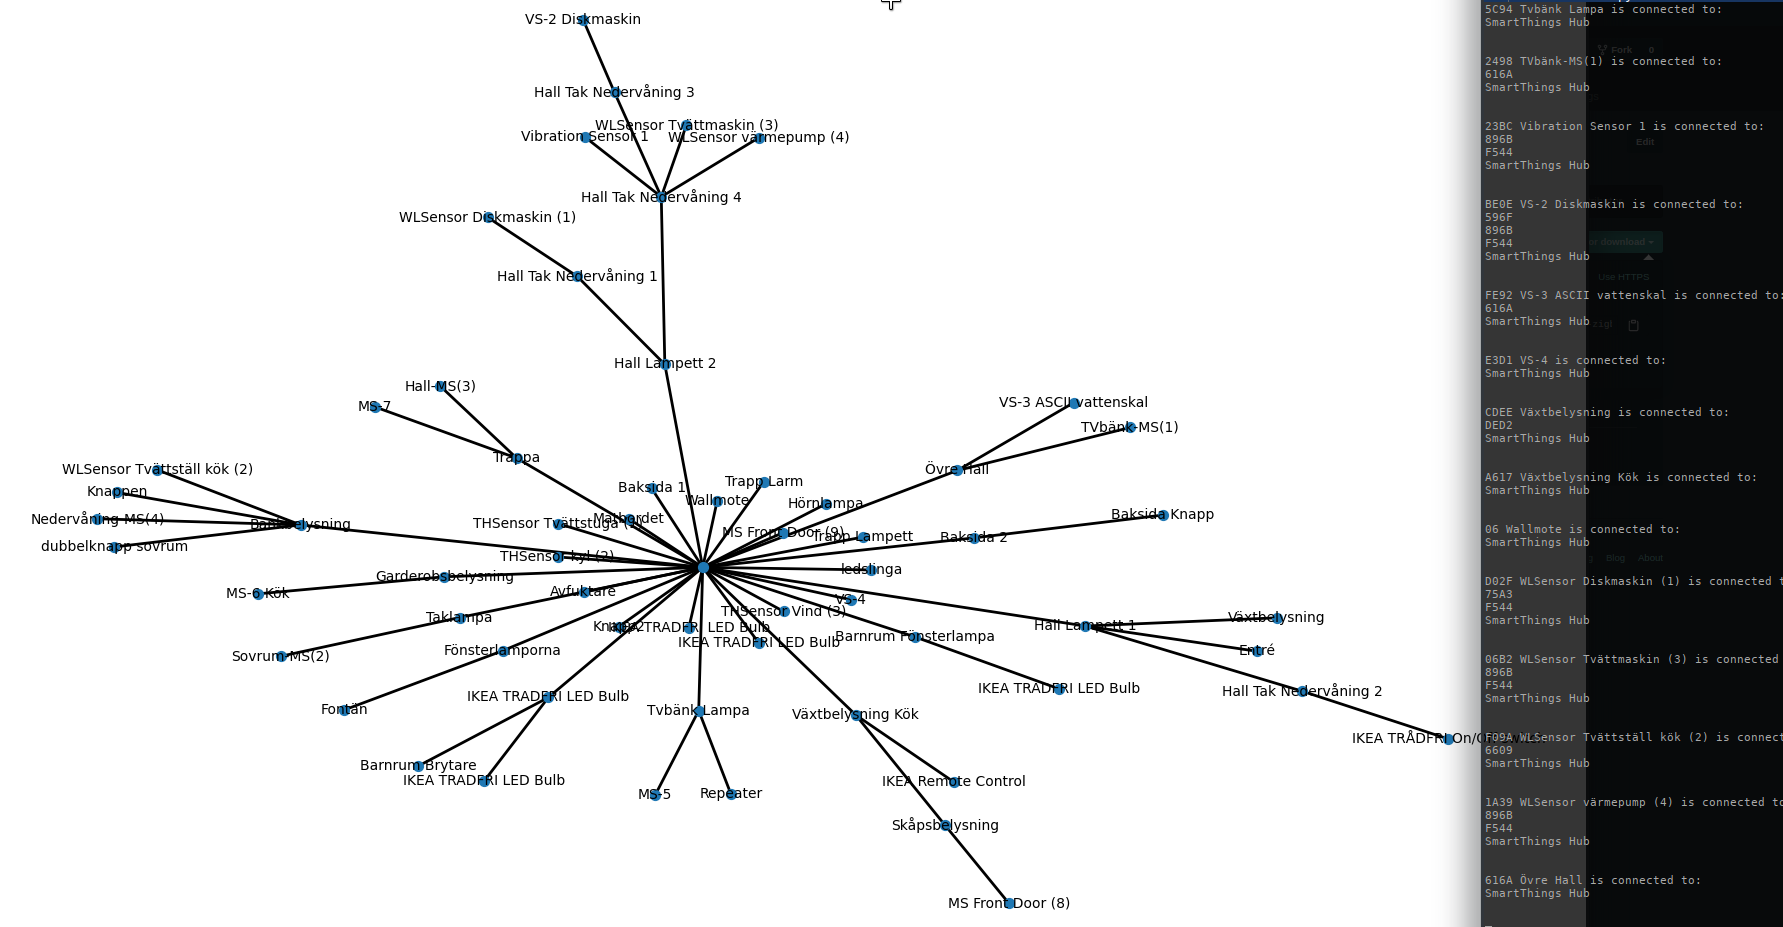
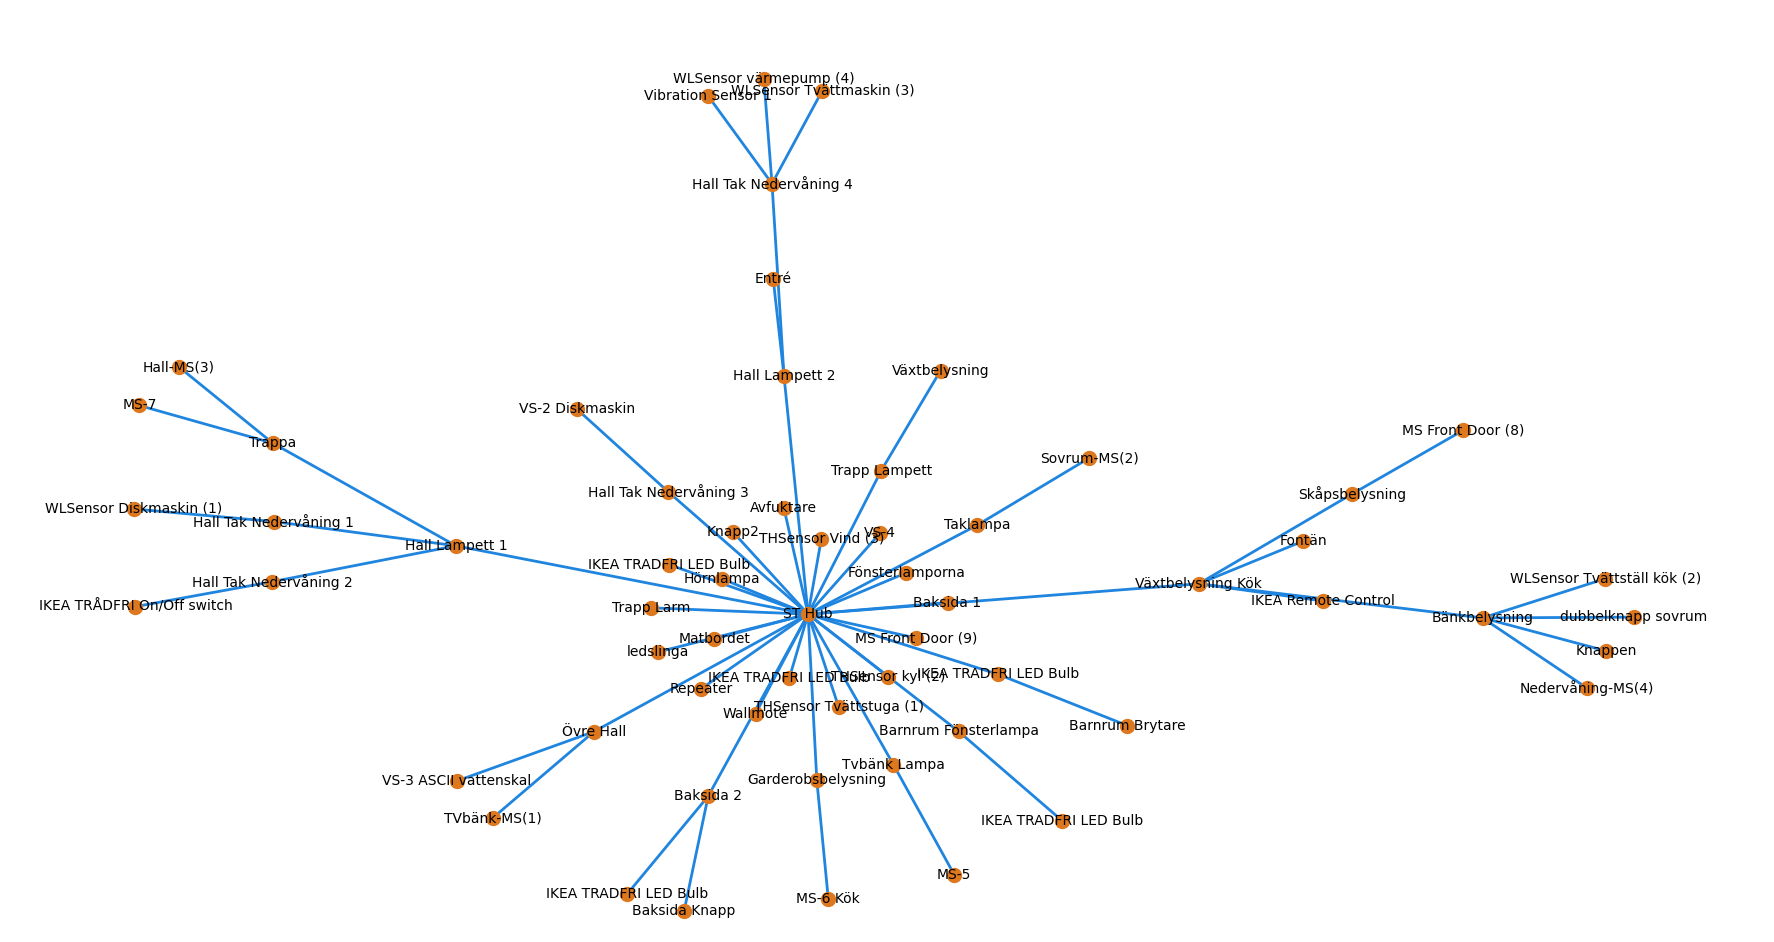
refactored, added multi hub support, changed colors

diff --git a/scrape-st-save-image.py b/scrape-st-save-image.py
@@ -1,74 +1,6 @@
-import networkx as nx
-import re
-import requests
-from bs4 import BeautifulSoup
+import _scrape
 import matplotlib.pyplot as plt
 
-G       = nx.Graph()
-cookies = {'JSESSIONID': input("COOKIE:")}
-host    = 'https://graph-eu01-euwest1.api.smartthings.com'
-r       = requests.get(host+'/device/list', cookies=cookies)
-
-G.add_node('0',details='{\'name\': \'Hub\'}')
-
-soup = BeautifulSoup(r.content, "html.parser")
-translationDict = {}
-for device in soup.select('#device-table > tbody > tr'):
-    link = device.select('td:nth-of-type(1) > a')[0]
-    deviceName        = link.text.strip()
-    deviceDetailsLink = link.get('href')
-
-    deviceType        = device.select('td:nth-of-type(2)')[0].text.strip()
-    hubName           = device.select('td:nth-of-type(4)')[0].text.strip()
-    deviceId          = device.select('td:nth-of-type(5)')[0].text.strip()
-    deviceNetworkId   = device.select('td:nth-of-type(6)')[0].text.strip()
-    deviceStatus      = device.select('td:nth-of-type(7)')[0].text.strip()
-
-    deviceDetails = requests.get(host+deviceDetailsLink, cookies=cookies)
-    details = BeautifulSoup(deviceDetails.content, "html.parser")
-    translationDict[deviceNetworkId] = deviceName
-    deviceData = {
-        'name':   deviceName,
-        'Type':   deviceType,
-        'ID':     deviceId,
-        'NID':    deviceNetworkId,
-        'Status': deviceStatus
-    }
-    G.add_node(deviceNetworkId, details=deviceData)
-    routes = details.select('#meshRoute-label + td a')
-    deviceRoute = []
-    for route in routes:
-        rex = re.search('.*\((.+)\).*', route.text)
-        if route == routes[1]:
-            print(deviceNetworkId + ' ' + deviceName + ' is connected to:')
-
-        if rex and rex.group(1) != deviceNetworkId:
-            deviceRoute.append(rex.group(1))
-            print(rex.group(1))
-        if route.text == hubName:
-            deviceRoute.append('0')
-            print(route.text)
-        if route == routes[-1]:
-            print("\n")
-
-    previousroute = None
-    for route in deviceRoute:
-        if not previousroute:
-            G.add_edge(deviceNetworkId, route)
-        else:
-            G.add_edge(route, previousroute)
-        previousroute = route
-
-
-options = {
-    'font_size': 10,
-    'node_size': 50,
-    'width': 2,
-    'with_labels': True,
-    'labels': translationDict
-}
-
-nx.draw(G,**options)
 fig = plt.gcf()
 fig.set_size_inches(180, 100, forward=True)
 plt.savefig('path.png')

diff --git a/scrape-st.py b/scrape-st.py
@@ -1,73 +1,6 @@
-import networkx as nx
-import re
-import requests
-from bs4 import BeautifulSoup
+import _scrape
 import matplotlib.pyplot as plt
 
-G       = nx.Graph()
-cookies = {'JSESSIONID': input("COOKIE:")}
-host    = 'https://graph-eu01-euwest1.api.smartthings.com'
-r       = requests.get(host+'/device/list', cookies=cookies)
-
-G.add_node('0',details='{\'name\': \'Hub\'}')
-
-soup = BeautifulSoup(r.content, "html.parser")
-translationDict = {}
-for device in soup.select('#device-table > tbody > tr'):
-    link = device.select('td:nth-of-type(1) > a')[0]
-    deviceName        = link.text.strip()
-    deviceDetailsLink = link.get('href')
-    deviceType        = device.select('td:nth-of-type(2)')[0].text.strip()
-    hubName           = device.select('td:nth-of-type(4)')[0].text.strip()
-    deviceId          = device.select('td:nth-of-type(5)')[0].text.strip()
-    deviceNetworkId   = device.select('td:nth-of-type(6)')[0].text.strip()
-    deviceStatus      = device.select('td:nth-of-type(7)')[0].text.strip()
-
-    deviceDetails = requests.get(host+deviceDetailsLink, cookies=cookies)
-    details = BeautifulSoup(deviceDetails.content, "html.parser")
-    translationDict[deviceNetworkId] = deviceName
-    deviceData = {
-        'name':   deviceName,
-        'Type':   deviceType,
-        'ID':     deviceId,
-        'NID':    deviceNetworkId,
-        'Status': deviceStatus
-    }
-    G.add_node(deviceNetworkId, details=deviceData)
-    routes = details.select('#meshRoute-label + td a')
-    deviceRoute = []
-    for route in routes:
-        rex = re.search('.*\((.+)\).*', route.text)
-        if route == routes[1]:
-            print(deviceNetworkId + ' ' + deviceName + ' is connected to:')
-
-        if rex and rex.group(1) != deviceNetworkId:
-            deviceRoute.append(rex.group(1))
-            print(rex.group(1))
-        if route.text == hubName:
-            deviceRoute.append('0')
-            print(route.text)
-        if route == routes[-1]:
-            print("\n")
-
-    previousroute = None
-    for route in deviceRoute:
-        if not previousroute:
-            G.add_edge(deviceNetworkId, route)
-        else:
-            G.add_edge(route, previousroute)
-        previousroute = route
-
-
-options = {
-    'font_size': 10,
-    'node_size': 50,
-    'width': 2,
-    'with_labels': True,
-    'labels': translationDict
-}
-
-nx.draw(G,**options)
 fig = plt.gcf()
 fig.set_size_inches(180, 100, forward=True)
 plt.show()

diff --git a/_scrape.py b/_scrape.py
@@ -1,0 +1,71 @@
+import networkx as nx
+import re
+import requests
+from bs4 import BeautifulSoup
+
+G       = nx.Graph()
+cookies = {'JSESSIONID': input("COOKIE:")}
+host    = 'https://graph-eu01-euwest1.api.smartthings.com'
+r       = requests.get(host+'/device/list', cookies=cookies)
+
+soup = BeautifulSoup(r.content, "html.parser")
+translationDict = {}
+for device in soup.select('#device-table > tbody > tr'):
+    link = device.select('td:nth-of-type(1) > a')[0]
+    deviceName        = link.text.strip()
+    deviceDetailsLink = link.get('href')
+    deviceType        = device.select('td:nth-of-type(2)')[0].text.strip()
+    hubName           = device.select('td:nth-of-type(4)')[0].text.strip()
+    deviceId          = device.select('td:nth-of-type(5)')[0].text.strip()
+    deviceNetworkId   = device.select('td:nth-of-type(6)')[0].text.strip()
+    deviceStatus      = device.select('td:nth-of-type(7)')[0].text.strip()
+    G.add_node(hubName, details='{\'name\': hubName}')
+
+    deviceDetails = requests.get(host+deviceDetailsLink, cookies=cookies)
+    details = BeautifulSoup(deviceDetails.content, "html.parser")
+    translationDict[deviceNetworkId] = deviceName
+    translationDict[hubName]         = hubName
+    deviceData = {
+        'name':   deviceName,
+        'Type':   deviceType,
+        'ID':     deviceId,
+        'NID':    deviceNetworkId,
+        'Status': deviceStatus
+    }
+    G.add_node(deviceNetworkId, details=deviceData)
+    routes = details.select('#meshRoute-label + td a')
+    deviceRoute = []
+    for route in routes:
+        rex = re.search('.*\((.+)\).*', route.text)
+        if route == routes[1]:
+            print(deviceNetworkId + ' ' + deviceName + ' is connected to:')
+
+        if rex and rex.group(1) != deviceNetworkId:
+            deviceRoute.append(rex.group(1))
+            print(rex.group(1))
+
+        if route.text == hubName:
+            deviceRoute.append(hubName)
+            print(route.text)
+
+        if route == routes[-1]:
+            print("\n")
+
+    previousroute = None
+    for route in deviceRoute:
+        if not previousroute:
+            G.add_edge(deviceNetworkId, route)
+        else:
+            G.add_edge(route, previousroute)
+        previousroute = route
+
+options = {
+    'font_size': 10,
+    'node_size': 100,
+    'width': 2,
+    'with_labels': True,
+    'labels': translationDict,
+    'node_color': '#DE781F',
+    'edge_color': '#1F85DE'
+}
+nx.draw(G,**options)
